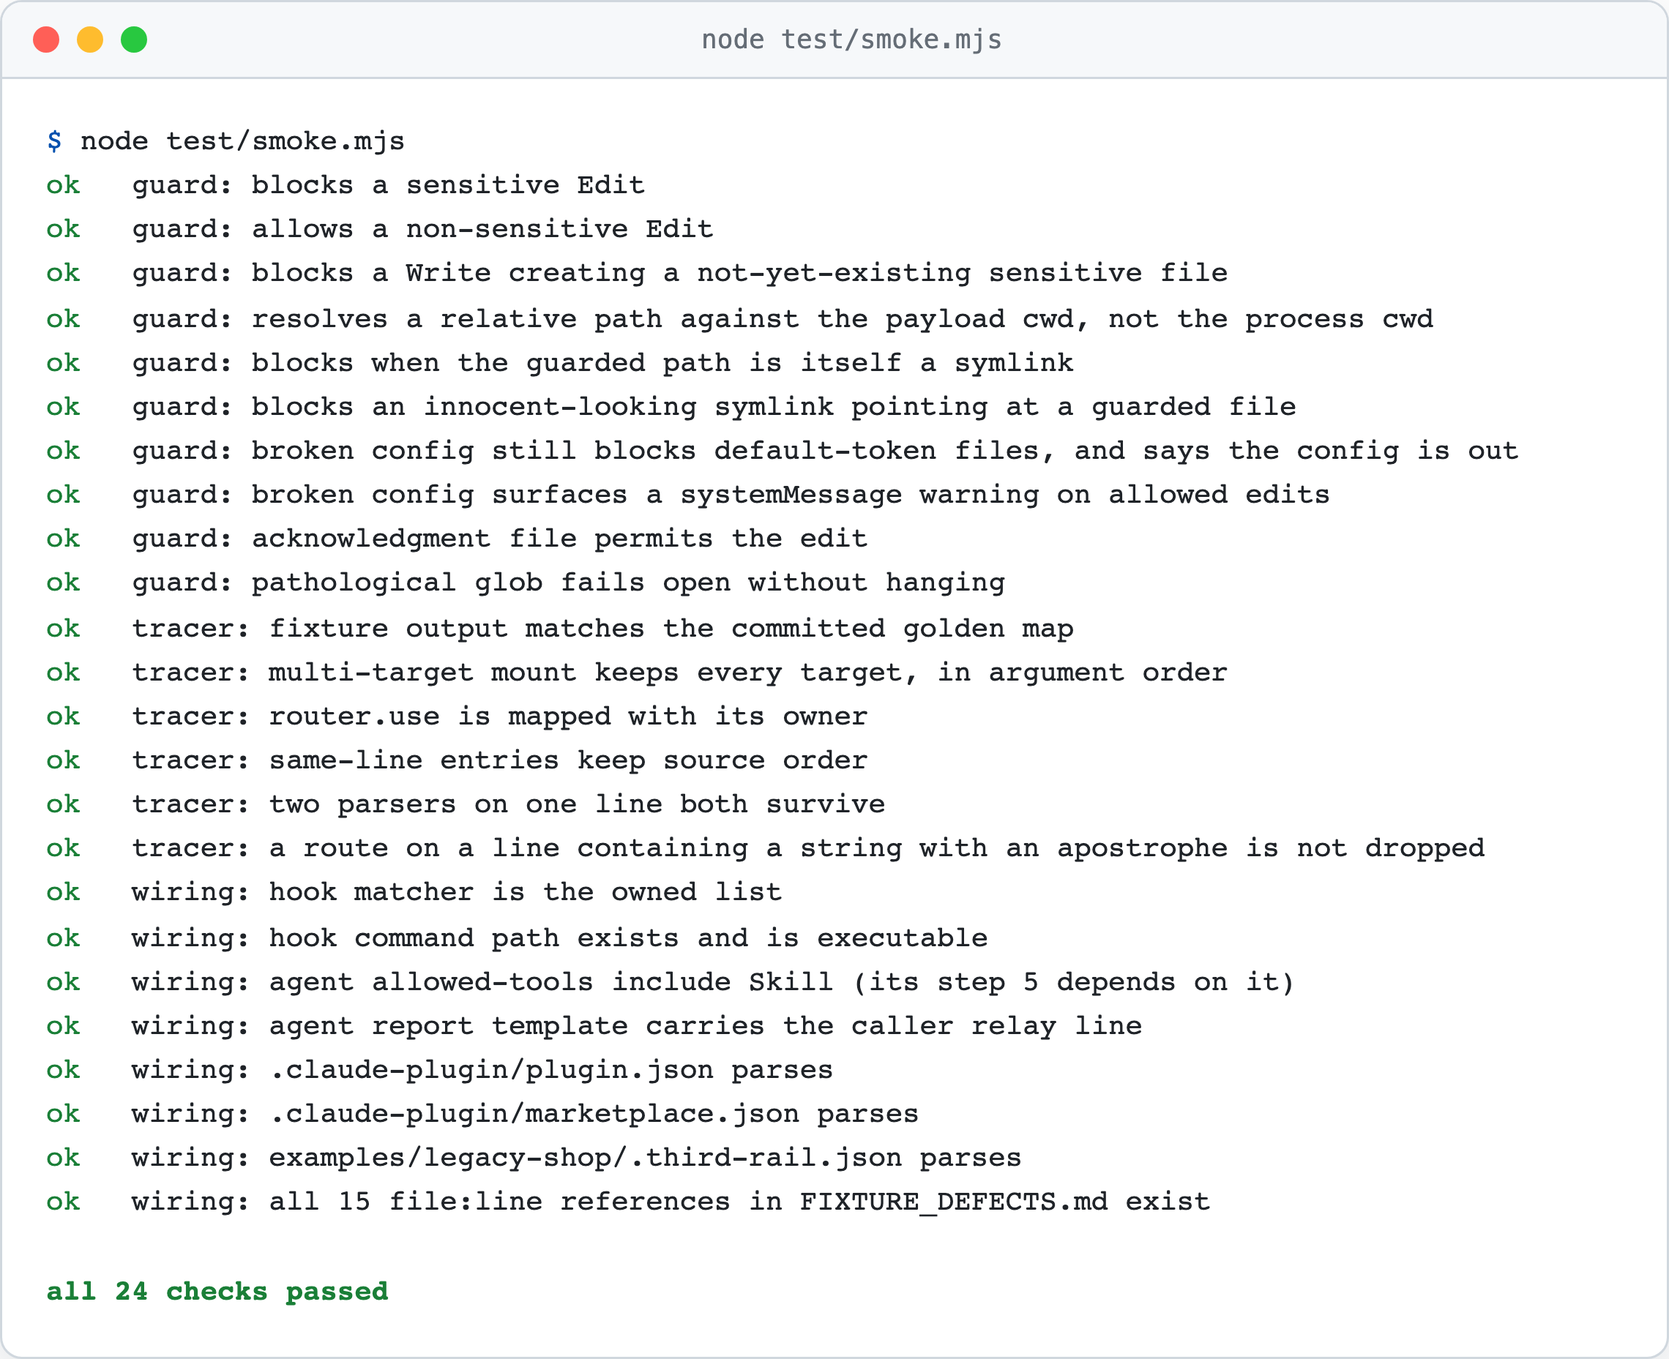
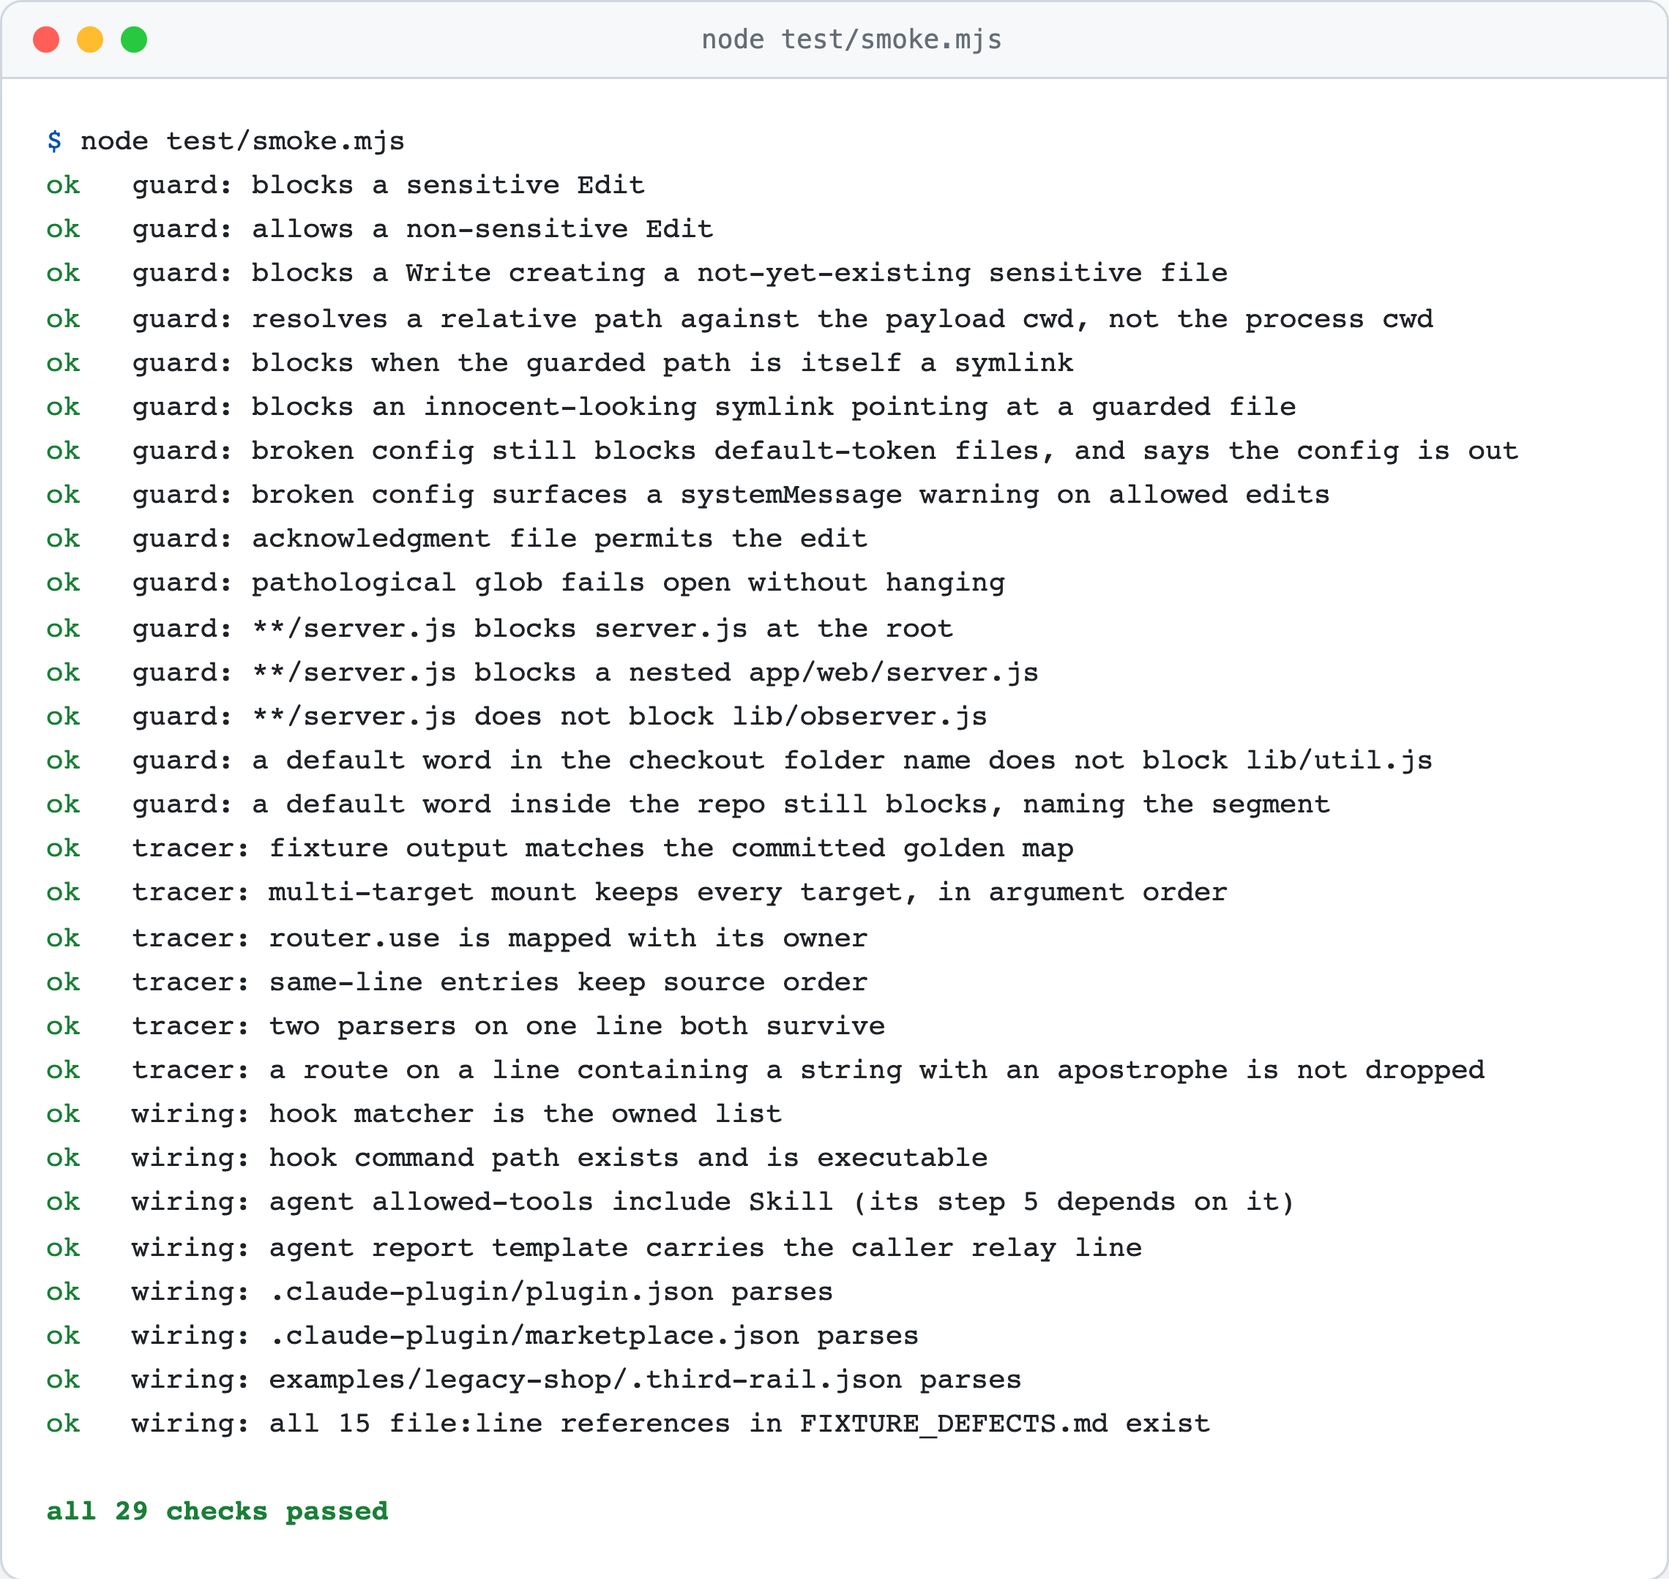
Record D12, refresh assets to 29 checks, and drop remaining em dashes
Regenerate the README screenshots and demo GIFs from the updated smoke
output; window titles no longer carry em dashes. README glob and
default-word rows describe the new scoping; tested version is 2.1.251.

diff --git a/docs/BLAST_RADIUS_DEMO.md b/docs/BLAST_RADIUS_DEMO.md
@@ -1,16 +1,16 @@
-# Third-rail — blast-radius review: examples/legacy-shop
+# Third-rail blast-radius review: examples/legacy-shop
 
-**Pre-change review — billing & webhook paths**
+**Pre-change review: billing & webhook paths**
 
 ## Blast radius: what this change touches, and what is merely claimed
 
-Produced by the blast-radius reviewer agent. Every finding carries file:line. Guards are reported as verified, wired-untested, or claimed-only — a control counts as done only with a call site on the live path and a test that exercises it.
+Produced by the blast-radius reviewer agent. Every finding carries file:line. Guards are reported as verified, wired-untested, or claimed-only. A control counts as done only with a call site on the live path and a test that exercises it.
 
 | Target | Scope | Runbook | Review time |
 |---|---|---|---|
 | examples/legacy-shop | billing + webhook routes | third-rail:hardening-runbook | 4-5 minutes |
 
-## § 01 — Affected routes and chains
+## § 01 · Affected routes and chains
 
 ```
 GET  /api/billing/invoices   → express.json → requireAuth → handler
@@ -21,30 +21,30 @@ POST /api/webhooks/payments  → express.json → handler        ← no guards o
 
 Body parsing: the global `express.json()` at server.js:12 is the only parser in the app, mounted before both router mounts (server.js:20-21). No `express.raw` exists anywhere, so the webhook handler never sees the raw bytes it needs for signature verification.
 
-## § 02 — Findings the runbook covers · items applied: 1, 2, 3, 4, 5, 7, 9
+## § 02 · Findings the runbook covers · items applied: 1, 2, 3, 4, 5, 7, 9
 
 **[BLOCKER] Failed webhook signature is logged, processed anyway, and acked 200**
 routes/webhooks.js:22-32 · runbook item 3
-- **Why:** Anyone POSTing `{"type":"payment.succeeded"}` gets fulfillment to run and the provider told it was delivered — forgery with no retry path, live since the 2022 TODO.
+- **Why:** Anyone POSTing `{"type":"payment.succeeded"}` gets fulfillment to run and the provider told it was delivered: forgery with no retry path, live since the 2022 TODO.
 - **Fix:** Return 400 on mismatch and stop; handler failures return 5xx so the provider retries.
 
 **[BLOCKER] POST /refund carries zero middleware while both siblings require auth**
 routes/billing.js:16 · runbook item 5
-- **Why:** An unauthenticated request can ship a refund for any orderId and amount. "Added in a hurry during the 2024 holiday incident" — the comment says so itself.
-- **Fix:** One line: `router.post('/refund', requireAuth, requireAdmin, ...)` — the chain its sibling /charge already carries.
+- **Why:** An unauthenticated request can ship a refund for any orderId and amount. "Added in a hurry during the 2024 holiday incident": the comment says so itself.
+- **Fix:** One line: `router.post('/refund', requireAuth, requireAdmin, ...)`, the chain its sibling /charge already carries.
 
-**[BLOCKER] Signature verified against re-serialized JSON — raw bytes already destroyed**
+**[BLOCKER] Signature verified against re-serialized JSON; raw bytes already destroyed**
 server.js:12, routes/webhooks.js:14-16 · runbook item 1
-- **Why:** Verification of legitimate events fails intermittently on key order, whitespace, unicode — the failure mode that bred the skip-and-continue TODO. Unreliable as built.
+- **Why:** Verification of legitimate events fails intermittently on key order, whitespace, unicode: the failure mode that bred the skip-and-continue TODO. Unreliable as built.
 - **Fix:** Mount `express.raw({ type: 'application/json' })` on the /payments route; verify the raw buffer; parse only after verification.
 
 **[WARN] The org's tested constant-time verifier has zero live call sites**
 utils/verifySignature.js:5 · runbook item 2
-- **Why:** The 2023-security-push helper is correct, tested, and ready — and protects nothing. Its passing unit tests are evidence it works, zero evidence it runs. The fix that never happened.
-- **How it happens:** The code's own comments tell it: one engineer wrote the proper verifier in the "2023 security push"; another had already hand-rolled the inline check under a 2022 TODO. Two efforts, two years, never connected — every dashboard green the whole time.
+- **Why:** The 2023-security-push helper is correct, tested, and ready, and protects nothing. Its passing unit tests are evidence it works, zero evidence it runs. The fix that never happened.
+- **How it happens:** The code's own comments tell it: one engineer wrote the proper verifier in the "2023 security push"; another had already hand-rolled the inline check under a 2022 TODO. Two efforts, two years, never connected, every dashboard green the whole time.
 - **Fix:** Call `verifySignature({...})` in the /payments handler; delete the inline HMAC block.
 
-**[WARN] No idempotency — provider redelivery re-runs fulfillment**
+**[WARN] No idempotency: provider redelivery re-runs fulfillment**
 routes/webhooks.js:28-30 · runbook item 4
 - **Why:** Providers redeliver. A redelivered payment.succeeded double-fulfills once that branch is real.
 - **Fix:** Record processed event ids before the fulfillment branch; no-op on replay.
@@ -56,14 +56,14 @@ routes/webhooks.js:10 · runbook item 7
 
 **[WARN] WEBHOOK_SECRET falls back to a committed demo value; boot never refuses**
 routes/webhooks.js:6 · runbook item 9
-- **Why:** The moment enforcement is fixed, an unset production env var silently verifies against `whsec_demo_secret` — public in this repo — keeping forgery trivial with no error anywhere.
+- **Why:** The moment enforcement is fixed, an unset production env var silently verifies against `whsec_demo_secret` (public in this repo), keeping forgery trivial with no error anywhere.
 - **Fix:** Remove the fallback; production boot exits if the secret is missing or short.
 
-## § 03 — Findings the runbook does not cover · candidates for the org's runbook if they recur
+## § 03 · Findings the runbook does not cover · candidates for the org's runbook if they recur
 
 **[WARN] Refund handler forwards unvalidated attacker-controlled orderId and amount**
 routes/billing.js:17-18
-- **Why:** Even after the auth fix lands, any admin request — or stolen admin token — can refund an arbitrary orderId for an arbitrary amount, negative values included. No existence, ownership, or cap check.
+- **Why:** Even after the auth fix lands, any admin request (or stolen admin token) can refund an arbitrary orderId for an arbitrary amount, negative values included. No existence, ownership, or cap check.
 - **Not in runbook:** Item 5 covers guard coverage and ordering; nothing covers validating a refund payload against the original charge.
 
 **[INFO] Inline signature check is weaker than the shelved util on three axes**
@@ -71,7 +71,7 @@ routes/webhooks.js:16-22 vs utils/verifySignature.js:8-21
 - **Why:** `!==` string comparison instead of `timingSafeEqual`, no timestamp-freshness window, no length check. Once mismatches stop being skipped, these become the live weaknesses.
 - **Not in runbook:** Items 1-3 mandate raw bytes, a wired verifier, fail-closed behavior; none prescribes constant-time comparison for webhook signatures.
 
-## § 04 — Guards: claimed vs verified · the denominator the scoreboard counts
+## § 04 · Guards: claimed vs verified · the denominator the scoreboard counts
 
 | Guard | State | Evidence |
 |---|---|---|
@@ -81,18 +81,18 @@ routes/webhooks.js:16-22 vs utils/verifySignature.js:8-21
 
 Every dashboard would say webhooks are verified here. This table says nothing is.
 
-## § 05 — Adjacent, not reviewed
+## § 05 · Adjacent, not reviewed
 
-- routes/auth.js — listed in `.third-rail.json` sensitivePaths, outside this review's blast radius. It gets its own review when someone edits it.
+- routes/auth.js: listed in `.third-rail.json` sensitivePaths, outside this review's blast radius. It gets its own review when someone edits it.
 
-## § 06 — What this review could not verify statically
+## § 06 · What this review could not verify statically
 
-- No tests were executed; coverage judged by reading test/. No route-level path is exercised anywhere — which is why no guard reaches "verified."
+- No tests were executed; coverage judged by reading test/. No route-level path is exercised anywhere, which is why no guard reaches "verified."
 - The route map is a regex scan: dynamic registration or spread-array middleware would be invisible. None observed in the 8 scanned files, which is not proof of absence.
 - The fulfillment branch is a stub comment; downstream idempotency is not visible from this repo.
 - Whether production sets WEBHOOK_SECRET, and what a proxy in front supplies, is deployment configuration not present here.
 
-## § 07 — Scoreboard
+## § 07 · Scoreboard
 
 Counts only · reconciles against the sections above
 

diff --git a/README.md b/README.md
@@ -23,7 +23,7 @@ It ships fully instantiated for one stack, the legacy Node/Express monolith, bec
 
 ## Install
 
-Prerequisites: [Claude Code](https://code.claude.com/docs) (tested with 2.1.241) and Node 18 or newer. The hook and tracer are dependency-free Node scripts. Then, inside Claude Code:
+Prerequisites: [Claude Code](https://code.claude.com/docs) (tested with 2.1.251) and Node 18 or newer. The hook and tracer are dependency-free Node scripts. Then, inside Claude Code:
 
 ```text
 /plugin marketplace add tmarcelojr/third-rail
@@ -140,7 +140,7 @@ node test/smoke.mjs
 
 <picture>
   <source media="(prefers-color-scheme: dark)" srcset="assets/smoke-dark.png">
-  <img alt="Terminal output of node test/smoke.mjs: twenty-four ok lines covering guard blocking, symlink handling, broken-config behavior, acknowledgment handling, tracer golden-map comparison and edge cases, and wiring checks, ending with all 24 checks passed." src="assets/smoke-light.png" width="760">
+  <img alt="Terminal output of node test/smoke.mjs: twenty-nine ok lines covering guard blocking, symlink handling, broken-config behavior, acknowledgment handling, glob and default-word scoping, tracer golden-map comparison and edge cases, and wiring checks, ending with all 29 checks passed." src="assets/smoke-light.png" width="760">
 </picture>
 
 The guard itself is built to be boring: it fails open on malformed input, junk config, and its own crashes, because a guard bug must never brick the editor loop. A config that exists but cannot be parsed is surfaced loudly rather than silently swapped for defaults. Blocks teach: the message names the matched rule and the exact three steps to proceed.
@@ -164,8 +164,8 @@ Place at the repo root (the guard also finds it from parent directories):
 
 | Behavior | Detail |
 |---|---|
-| Globs | `**` crosses directories, `*` stays within a segment; case-insensitive; matched against both the resolved path and its realpath, so symlinks in either direction cannot dodge the guard |
-| No config | A conservative default list applies: whole-word tokens (`auth`, `billing`, `payment`, `webhook`, `stripe`, `checkout`, `refund`, `entitlement`, `session`, and similar) on code files only, so `authors-list.js` in an unrelated repo does not block |
+| Globs | `**/` matches zero or more whole directories (so `**/server.js` does not match `observer.js`), `*` stays within a segment; case-insensitive; matched against both the resolved path and its realpath, so symlinks in either direction cannot dodge the guard |
+| No config | A conservative default list applies: whole-word tokens (`auth`, `billing`, `payment`, `webhook`, `stripe`, `checkout`, `refund`, `entitlement`, `session`, and similar) on code files only, checked in path segments below the working directory, so `authors-list.js` does not block, and neither does every file in a checkout named `payments-api` |
 | Empty `sensitivePaths` | An explicit decision; the guard stays out of the way |
 | Broken config | Fails open, but the guard tells you your rules are not in effect (block message or a `systemMessage` warning) rather than silently reverting to defaults |
 | Acknowledgment | `touch .third-rail-ack` next to the config (or the working directory), or `THIRD_RAIL_ACK=1` for the session. Scoped on purpose: a stray ack far up the tree cannot silently disable the guard |
@@ -220,7 +220,7 @@ Stated plainly:
 ## Development
 
 ```bash
-node test/smoke.mjs            # 24 checks: guard matrix, tracer golden map, wiring
+node test/smoke.mjs            # 29 checks: guard matrix, tracer golden map, wiring
 claude plugin validate .       # manifest validation
 ```
 

diff --git a/docs/DECISIONS.md b/docs/DECISIONS.md
@@ -1,6 +1,6 @@
 # Decision log
 
-Steering record for the third-rail build: where the human overrode the tool, and why. Kept because judgment is the deliverable; the code is just its residue. Entries D1 through D8 are from 2026-08-20; D9 and D10 from 2026-08-21; D11 from 2026-08-22. Written during the build and reviewed by the author before submission.
+Steering record for the third-rail build: where the human overrode the tool, and why. Kept because judgment is the deliverable; the code is just its residue. Entries D1 through D8 are from 2026-08-20; D9 and D10 from 2026-08-21; D11 from 2026-08-22; D12 from 2026-10-04, after submission. Written during the build and reviewed by the author before submission.
 
 ## D1. Persona: rejected the AI's first recommendation
 
@@ -55,6 +55,12 @@ Fixes from this round, all re-verified: removed the duplicate hooks declaration 
 Staring at all three rounds together produced the diagnosis this round is built on. First, facts were duplicated across files with no owner, so every fix updated one copy and left the rest stale; now every duplicated fact has one owner file and other mentions point instead of restating. Second, runtime boundaries were verified by reading, never by executing; now `test/smoke.mjs` executes every boundary a script can reach: real hook payloads, both symlink directions, a deliberately broken config, a golden route map, and wiring checks. Third, determinism was promised in the judgment layer, where it is impossible, and absent in the code layer, where it is cheap; now the guard table's membership is pinned to two rules bounded by the committed config, and the comparability claim is cut down to exactly what those rules guarantee.
 
 Two corrections admitted rather than smoothed over. The relay instruction now lives at the tail of the report itself, the one place the caller must read to relay anything at all. And this entry supersedes D7's "each mapped to the runbook item that catches it": five of the six map, and the sixth's unmapped state is the point.
+
+## D12. After submission: two over-matches, found by building a map
+
+2026-10-04. While building an explorable map of the plugin with Claude, I ported the guard's matcher into an in-page simulator and diffed it against the real script on ten payloads. The port matched; the script did not match my intent in two places. A leading `**/` consumed its own slash, so `**/server.js` compiled to "any path ending in server.js" and blocked `lib/observer.js` in the fixture. And with no config, default words were checked against every segment of the absolute path, so a checkout named `payments-api` made every code file sensitive, `authors-list.js` included, under a message that said "filename".
+
+Both failed closed, so they cost noise rather than safety, and no smoke check covered either. Fixes: `**/` now means zero or more whole directories; default matching reads only segments below the config directory or the working directory (and its realpath); the block reason names the segment that matched. Five new smoke checks, three of which fail against the previous guard. The same day, a headless session on Claude Code 2.1.251 confirmed the installed hook still blocks an Edit to billing.js. The lesson is D11's from the other side: the matcher had tests, but only for the inputs I had thought of, and a second implementation compared against the first found the ones I had not.
 
 ## With-more-time candidates captured during the build
 

diff --git a/docs/BUILD_YOUR_OWN_PLUGIN.md b/docs/BUILD_YOUR_OWN_PLUGIN.md
@@ -22,7 +22,7 @@ Write two sentences.
 - The workflow sentence starts with "Use when."
 - It names words your team actually types.
 
-## 2 · Create it — pick one command (~1 min)
+## 2 · Create it: pick one command (~1 min)
 
 Open a terminal. Any folder works: this puts the plugin in Claude's own home, so it loads in every session. `dbt-guard` is an example name. Type your own, everywhere it appears on this page.
 
@@ -102,13 +102,13 @@ Two ways it fires: your words match the `description:` (the real test), or you t
 
 In the same session: attempt the forbidden action, then a harmless one. Testing by hand instead? Take the key your hook reads from THE CONTRACT below, never from your own guess (recorder line there for everything else).
 
-**Check** (both directions — you are done):
+**Check** (both directions, then you are done):
 - The forbidden action does not run, and your reason comes back. Claude may reword it.
 - The harmless one proceeds.
 
 A hook you have not watched block is not a guard.
 
-## The contract — only if you picked option 2
+## The contract (only if you picked option 2)
 
 `hooks/hooks.json`:
 
@@ -125,7 +125,7 @@ A hook you have not watched block is not a guard.
 
 FAIL-OPEN by default: a crash, a wrong script path, or a timeout (seconds) each let the action run; try/catch + exit 2 hardens crashes only (a timed-out hook is killed from outside). `${CLAUDE_PLUGIN_ROOT}` = this plugin's folder; `node --check` after edits. A hook sees the tool call, not your repo: a seatbelt, not a security boundary.
 
-## When it breaks — silent failures
+## When it breaks: silent failures
 
 - **Skill never fires** · vague description (rewrite with typed words), or frontmatter has `disable-model-invocation: true`; delete that line.
 - **Hook never fires** · hooks.json shape wrong (copy it from the contract), no `node` prefix, or stale session → `/reload-plugins`; `/hooks` must list it.

diff --git a/docs/FIXTURE_DEFECTS.md b/docs/FIXTURE_DEFECTS.md
@@ -58,7 +58,7 @@ Two consequences: forged events are fulfilled, and genuine failures are never re
 
 Searching the request path for callers returns nothing at all: the only mentions anywhere are the definition and its test. The control exists and does not run.
 
-The seeded comments stage how this happens in real codebases: the verifier is dated to a "2023 security push" (`utils/verifySignature.js:3`) while the handler's inline check carries a 2022 skip-it-for-now TODO (`routes/webhooks.js:23`). Two efforts, two years apart, never connected — and every test and dashboard stays green throughout. That gap between "the fix exists" and "the fix runs" is the bug class runbook item 2 exists for.
+The seeded comments stage how this happens in real codebases: the verifier is dated to a "2023 security push" (`utils/verifySignature.js:3`) while the handler's inline check carries a 2022 skip-it-for-now TODO (`routes/webhooks.js:23`). Two efforts, two years apart, never connected, and every test and dashboard stays green throughout. That gap between "the fix exists" and "the fix runs" is the bug class runbook item 2 exists for.
 
 ### D4. Refund route has no authentication
 
